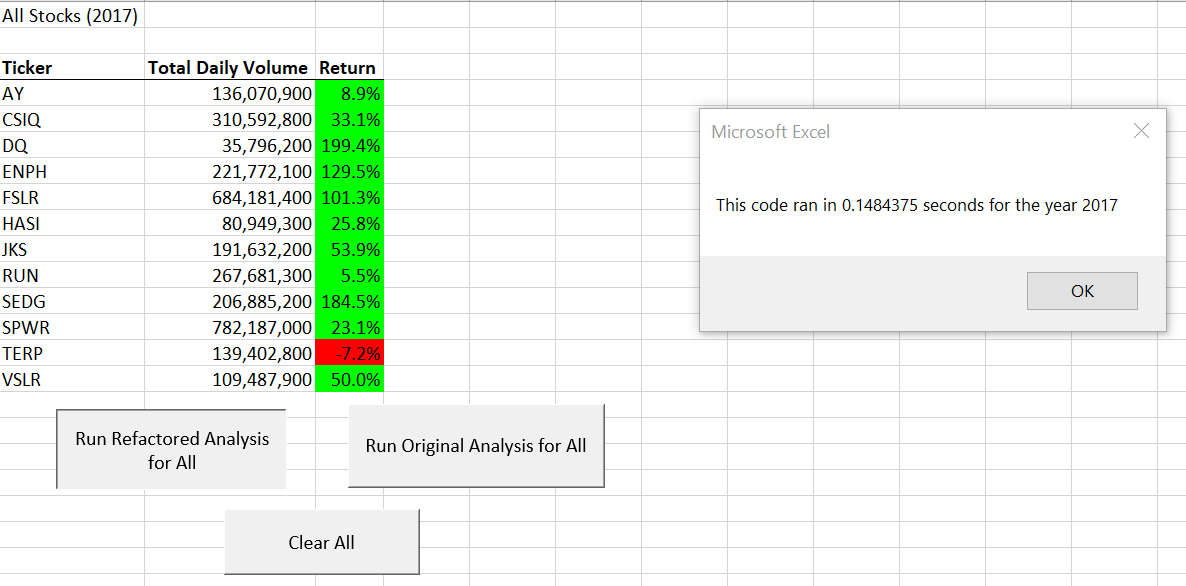
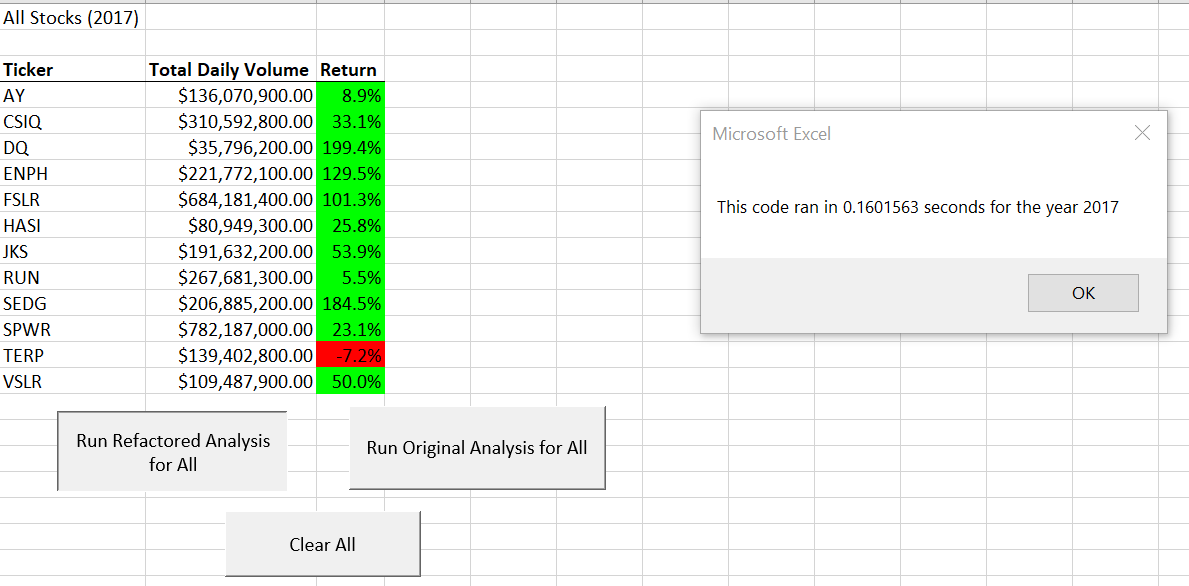
Added final version of Deliverables 1 & 2 (excel & readme)

diff --git a/README.md b/README.md
@@ -6,11 +6,11 @@ Steve, a recent finance graduate, wants to apply what he has learned to help his
 
 ### Purpose
 
-Using VBA's full capability, we want to create a code to automate the analyses performed on the list of green energy stocks, and refactor it in such a way that it can be applied to the entire stock market for the last few years, and run in a practical and timely manner.
+Using VBA's full capability, we want to create a code to automate the analyses performed on the list of green energy stocks. We also want to refactor it in such a way that it can be applied to the entire stock market for the last few years, and ran in a practical and timely manner.
 
-## Results
+## Analysis
 
-
+Using a data set from a total of 12 different ticker stocks, a VBA script was created to calculate the Total Daily Volume and the Yearly Return for years 2017 and 2018. The macro created involved an extensive code, which included variables, arrays, for & nested loops, and conditional statements. In hopes to reduce the execution time of the script and make it functional for potential larger data sets, the code was refactored, involving a total of four arrays and concise conditional statements. Buttons and formatting were introduced to make the worksheet more interactive and user-friendly. The refactored VBA macro has been attached.
 
 ### Refactored Code
 
@@ -19,11 +19,38 @@ Using VBA's full capability, we want to create a code to automate the analyses p
 ![Refactored VBA Code - Part 3](https://github.com/doliver231/stock-analysis/blob/main/Resources/Refactored_Code_3.png)
 ![Refactored VBA Code - Part 4](https://github.com/doliver231/stock-analysis/blob/main/Resources/Refactored_Code_4.png)
 
+## Results
+
+There are notable differences between the results for 2017 and 2018. 92% of the stocks in 2017 showed positive yearly returns, while 83% of the stocks in 2018 had negative returns. 
+
+In 2017, the one stock that stood out was TERP, with a return of -7.2%. DQ, ENPH, and SEDG had the highest returns. DQ had the highest yearly return out of all, but shows the least daily volume. In 2018, the only ones with positive returns are ENPH and RUN. ENPH even had the highest total daily volume out of all stocks. If I had to suggest a stock to Steve's parents, it would be to invest in ENPH, which showed the best progress for both years.
+
+The execution times of the refactored VBA macros compared to the original scripts differed substantially. Without the code being refactored, the execution times for both 2017 and 2018 were 1.09 and 1.05 seconds, respectively. On the other hand, after being refactored, the times to the execute the code for 2017 and 2018 were 0.16 and 0.14 seconds, respectively. Clearly, the refactored macro produced much faster results.
+
 ### VBA Code Execution Time
 
+##### 2017 All Stocks Analysis - Original Script
 ![Original Execution Time for 2017](https://github.com/doliver231/stock-analysis/blob/main/Resources/VBA_Challenge_2017_Original.png)
+
+##### 2018 All Stocks Analysis - Original Script
 ![Original Execution Time for 2018](https://github.com/doliver231/stock-analysis/blob/main/Resources/VBA_Challenge_2018_Original.png)
+
+##### 2017 All Stocks Analysis - Refactored Script
 ![Refactored Execution Time for 2017](https://github.com/doliver231/stock-analysis/blob/main/Resources/VBA_Challenge_2017.png)
+
+##### 2018 All Stocks Analysis - Refactored Script
 ![Refactored Execution Time for 2018](https://github.com/doliver231/stock-analysis/blob/main/Resources/VBA_Challenge_2018.png)
 
 ## Summary
+
+### Advantages and Disadvantages of Refacturing Code
+
+An advantage to refactoring any general code is the script will be more concise, organized, and easier to follow. From what we saw in the analysis, refactored code tends to reduce the time to execute the whole code, which is ideal for huge datasets.
+
+A disadvantage is that it can be risky to change any section of an already set code. It may introduce bugs and may be difficult to interpret for beginner coders.
+
+### Advantages and Disadvantages of Original & Refactored VBA Scripts
+
+I believe there are always advantages when refactoring than without. In this specific case, the refactored VBA script versus the original has clear positive results. The observable outputs were exactly the same, however, it made the code flexible and removed any needless complexity. At a small scale, the execution times were greatly reduced after refactoring, which is important when dealing with much bigger datasets.
+
+Refactoring the original script can always be risky. In my case, I ended up debugging a few times because certain subroutines and statements were mismatched and easily gone unnoticed. With a complex code, one really has to decide if it's really worth risking breaking the code by trying to make it better. It worked for this challenge but may not be useful for data sets of other sizes and categories. The risk of complicating the code was disadvantage on its own.
